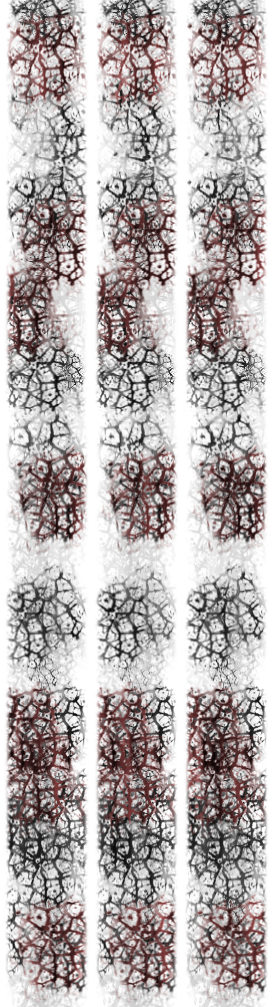
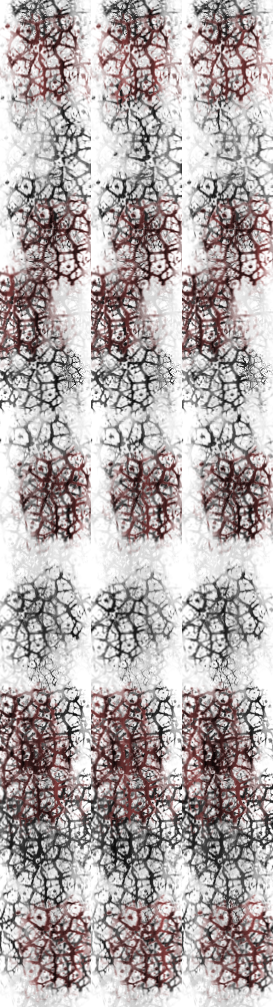
new biomass progress texture * new gui layout for the progress bars * tweaked teak and pine prices to always have a positive biomass in average

diff --git a/VoxelSeeds/Seedbar.cs b/VoxelSeeds/Seedbar.cs
@@ -26,8 +26,12 @@ namespace VoxelSeeds
         }
 
         const int progressBarPictureCount = 3;
-        const int progressBarPictureWidth = 91;
+        const int PARASITE_PROGRESSBAR_SLICE_WIDTH = 91;
+        const int BIOMASS_PROGRESSBAR_SLICE_WIDTH = 100;
         const int progressBarPictureHeight = 1007;
+        const int BIG_INFO_FIELD_WIDTH = 200;
+        const int BIG_INFO_FIELD_HEIGHT = 64;
+        const int PROGRESS_WIDTH = BIG_INFO_FIELD_WIDTH / 2 - 10;
 
         private SpriteBatch spriteBatch;
         private SpriteFont font;
@@ -92,7 +96,7 @@ namespace VoxelSeeds
             helix = contentManager.Load<Texture2D>("helix.png");
             pixel = contentManager.Load<Texture2D>("pixel.png");
             frame = contentManager.Load<Texture2D>("frame.png");
-            progressBar = contentManager.Load<Texture2D>("Dummy.png");
+            progressBar = contentManager.Load<Texture2D>("biomass.png");
             evilProgressBar = contentManager.Load<Texture2D>("parasiteprogress.png");
             _clock = contentManager.Load<Texture2D>("clock.png");
 
@@ -143,36 +147,42 @@ namespace VoxelSeeds
 
         private void DrawFramedQuad(int left, int top, int width, int height, float transparency = 1.0f)
         {
-            spriteBatch.Draw(frame, new DrawingRectangle(left, top, width, height), new Color(0.3f, 0.4f, 0.3f, transparency));
+            spriteBatch.Draw(pixel, new DrawingRectangle(left, top, width, height), new Color(0.3f, 0.4f, 0.3f, transparency));
             spriteBatch.Draw(pixel, new DrawingRectangle(left + 5, top + 5, width - 10, height - 10), new Color(0f, 0.1f, 0f, transparency));
         }
 
         public void Draw(Level currentlevel, GameTime gameTime)
         {
-            float progress = (float)currentlevel.CurrentBiomass / (float)currentlevel.TargetBiomass;
-            float evilProgress = (float)currentlevel.CurrentParasiteMass / (float)currentlevel.FinalParasiteBiomass;
+            float progress = Math.Min(1f,(float)currentlevel.CurrentBiomass / (float)currentlevel.TargetBiomass);
+            float evilProgress = Math.Min(1f,(float)currentlevel.CurrentParasiteMass / (float)currentlevel.FinalParasiteBiomass);
 
 
             progressCount = (float)gameTime.TotalGameTime.TotalSeconds / 2;
 
+            // Factor to blend between different textures for the same object
             alpha = progressCount - (float)Math.Floor(progressCount);
 
             spriteBatch.Begin(SpriteSortMode.Deferred, spriteBatch.GraphicsDevice.BlendStates.NonPremultiplied);
             
-            //draw Progress good/evil
-            spriteBatch.Draw(progressBar, new DrawingRectangle(windowWidth, windowHeight, progressBarPictureWidth, (int)((windowHeight - 68) * progress)),
-                new DrawingRectangle(progressBarPictureWidth * ((int)progressCount % progressBarPictureCount), 0, progressBarPictureWidth, (int)(progressBarPictureHeight * progress)),
+            // Draw Progress good/evil
+            int progressBarHeight = windowHeight - BIG_INFO_FIELD_HEIGHT * 2 - 10;
+            DrawFramedQuad(windowWidth - BIG_INFO_FIELD_WIDTH, BIG_INFO_FIELD_HEIGHT * 2, BIG_INFO_FIELD_WIDTH / 2, windowHeight - BIG_INFO_FIELD_HEIGHT * 2);
+            DrawingRectangle progressRect = new DrawingRectangle(windowWidth - 5 - BIG_INFO_FIELD_WIDTH / 2, windowHeight - 5, PROGRESS_WIDTH, (int)(progressBarHeight * progress));
+            spriteBatch.Draw(progressBar, progressRect,
+                new DrawingRectangle(BIOMASS_PROGRESSBAR_SLICE_WIDTH * ((int)progressCount % progressBarPictureCount), 0, BIOMASS_PROGRESSBAR_SLICE_WIDTH, (int)(progressBarHeight * progress)),
                 new Color(1f,1f,1f, 1f - alpha), (float)Math.PI, new Vector2(0, 0), SpriteEffects.None, 0);
-            spriteBatch.Draw(progressBar, new DrawingRectangle(windowWidth, windowHeight, progressBarPictureWidth, (int)((windowHeight - 68) * progress)),
-                new DrawingRectangle(progressBarPictureWidth * (((int)progressCount + 1) % progressBarPictureCount), 0, progressBarPictureWidth, (int)(progressBarPictureHeight * progress)),
+            spriteBatch.Draw(progressBar, progressRect,
+                new DrawingRectangle(BIOMASS_PROGRESSBAR_SLICE_WIDTH * (((int)progressCount + 1) % progressBarPictureCount), 0, BIOMASS_PROGRESSBAR_SLICE_WIDTH, (int)(progressBarHeight * progress)),
                 new Color(1f, 1f, 1f, alpha), (float)Math.PI, new Vector2(0, 0), SpriteEffects.None, 0);
 
 
-            spriteBatch.Draw(evilProgressBar, new DrawingRectangle(windowWidth - progressBarPictureWidth, windowHeight, progressBarPictureWidth, (int)((windowHeight - 68) * evilProgress)),
-                new DrawingRectangle(progressBarPictureWidth * ((int)progressCount % progressBarPictureCount), 0, progressBarPictureWidth, (int)(progressBarPictureHeight * evilProgress)),
+            DrawFramedQuad(windowWidth - BIG_INFO_FIELD_WIDTH / 2, BIG_INFO_FIELD_HEIGHT * 2, BIG_INFO_FIELD_WIDTH / 2, progressBarHeight + 10);
+            progressRect = new DrawingRectangle(windowWidth - 5, windowHeight - 5, PROGRESS_WIDTH, (int)(progressBarHeight * evilProgress));
+            spriteBatch.Draw(evilProgressBar, progressRect,
+                new DrawingRectangle(PARASITE_PROGRESSBAR_SLICE_WIDTH * ((int)progressCount % progressBarPictureCount), 0, PARASITE_PROGRESSBAR_SLICE_WIDTH, (int)(progressBarHeight * evilProgress)),
                 new Color(1f,1f,1f, 1f - alpha), (float)Math.PI, new Vector2(0, 0), SpriteEffects.None, 0);
-            spriteBatch.Draw(evilProgressBar, new DrawingRectangle(windowWidth - progressBarPictureWidth, windowHeight, progressBarPictureWidth, (int)((windowHeight - 68) * evilProgress)),
-                new DrawingRectangle(progressBarPictureWidth * (((int)progressCount + 1) % progressBarPictureCount), 0, progressBarPictureWidth, (int)(progressBarPictureHeight * evilProgress)),
+            spriteBatch.Draw(evilProgressBar, progressRect,
+                new DrawingRectangle(PARASITE_PROGRESSBAR_SLICE_WIDTH * (((int)progressCount + 1) % progressBarPictureCount), 0, PARASITE_PROGRESSBAR_SLICE_WIDTH, (int)(progressBarHeight * evilProgress)),
                 new Color(1f, 1f, 1f, alpha), (float)Math.PI, new Vector2(0, 0), SpriteEffects.None, 0);
 
             spriteBatch.End();
@@ -193,19 +203,14 @@ namespace VoxelSeeds
             }
 
             // Draw Resources
-            const int BIG_INFO_FIELD_WIDTH = 200;
-            const int BIG_INFO_FIELD_HEIGHT = 64;
             DrawFramedQuad(windowWidth - BIG_INFO_FIELD_WIDTH, 0, BIG_INFO_FIELD_WIDTH, BIG_INFO_FIELD_HEIGHT);
             spriteBatch.Draw(helix, new DrawingRectangle(windowWidth - BIG_INFO_FIELD_WIDTH + 10, 9, 23, 46), Color.White);
-            spriteBatch.DrawString(largeFont, currentlevel.Resources.ToString(), new Vector2(windowWidth - BIG_INFO_FIELD_WIDTH + 33, -6), Color.White);
+            spriteBatch.DrawString(largeFont, currentlevel.Resources.ToString(), new Vector2(windowWidth - BIG_INFO_FIELD_WIDTH + 45, -6), Color.White);
 
             // Draw timer
-            DrawFramedQuad(windowWidth - BIG_INFO_FIELD_WIDTH, windowHeight + 5 - 2 * BIG_INFO_FIELD_HEIGHT, BIG_INFO_FIELD_WIDTH, BIG_INFO_FIELD_HEIGHT);
-            spriteBatch.Draw(_clock, new DrawingRectangle(windowWidth - BIG_INFO_FIELD_WIDTH + 8, windowHeight + 13 - 2 * BIG_INFO_FIELD_HEIGHT, 39, 48), Color.White);
-            spriteBatch.DrawString(largeFont, currentlevel.CountDown, new Vector2(windowWidth - BIG_INFO_FIELD_WIDTH + 50, windowHeight - 2 * BIG_INFO_FIELD_HEIGHT), Color.White);
-
-            // Draw biomass counter
-            DrawFramedQuad(windowWidth - 350, windowHeight - BIG_INFO_FIELD_HEIGHT, 350, BIG_INFO_FIELD_HEIGHT);
+            DrawFramedQuad(windowWidth - BIG_INFO_FIELD_WIDTH, BIG_INFO_FIELD_HEIGHT, BIG_INFO_FIELD_WIDTH, BIG_INFO_FIELD_HEIGHT);
+            spriteBatch.Draw(_clock, new DrawingRectangle(windowWidth - BIG_INFO_FIELD_WIDTH + 8, BIG_INFO_FIELD_HEIGHT+8, 39, 48), Color.White);
+            spriteBatch.DrawString(largeFont, currentlevel.CountDown, new Vector2(windowWidth - BIG_INFO_FIELD_WIDTH + 45, BIG_INFO_FIELD_HEIGHT - 5), currentlevel.TheClockIsTicking() ? Color.White : Color.DarkGray);
 
             if (_selected > -1)
             {

diff --git a/VoxelSeeds/GamePlayUtils.cs b/VoxelSeeds/GamePlayUtils.cs
@@ -75,29 +75,35 @@ namespace VoxelSeeds
 
         /// <summary>
         /// Enough space is defined as:
-        /// A circle of a spezified size must be empty on the y-level where the
-        /// seed should be set. And the level-1 has to contain at least 30% Ground.
+        /// The weighted area sum of a circle of a spezified size must be at
+        /// least 90% on the y-level where the seed should be set and the level - 1
+        /// has to contain at least 50% Ground (again weighted).
         /// </summary>
         /// <param name="type"></param>
         /// <returns></returns>
         static public bool IsThereEnoughSpaceFor(Map map, VoxelType type, int x, int y, int z)
         {
-            int num = 0;
-            int numAvailable = 0;
-            int numGroundBelow = 0;
+            float num = 0f;
+            float numAvailable = 0f;
+            float numGroundBelow = 0f;
             int radius = TypeInformation.GetRequiredSpace(type);
             for (int w = -radius; w <= radius; ++w)
-                for (int u = -radius; u <= radius; ++u) if(u*u+w*w <= radius*radius)
+                for (int u = -radius; u <= radius; ++u)
                 {
-                    ++num;
-                    if (map.IsEmpty(map.EncodePosition(x + u, y, z + w)))
-                        ++numAvailable;
-                    if (map.Get(map.EncodePosition(x + u, y - 1, z + w)) == VoxelType.GROUND)
-                        ++numGroundBelow;
+                    // The center gets the largest weight. Decreasing to zero at edges
+                    float fWeight = (float)(radius-Math.Sqrt(u * u + w * w));
+                    if (fWeight >= 0)
+                    {
+                        num += fWeight;
+                        if (map.IsEmpty(map.EncodePosition(x + u, y, z + w)))
+                            numAvailable += fWeight;
+                        if (map.Get(map.EncodePosition(x + u, y - 1, z + w)) == VoxelType.GROUND)
+                            numGroundBelow += fWeight;
+                    }
                 }
 
-            return numAvailable == num
-                && ((numGroundBelow/(float)num) >= 0.3f);
+            return ((numAvailable/num) >= 0.90f)
+                && ((numGroundBelow/num) >= 0.5f);
         }
     }
 }

diff --git a/VoxelSeeds/VoxelInfo.cs b/VoxelSeeds/VoxelInfo.cs
@@ -34,7 +34,15 @@ namespace VoxelSeeds
 
     class TypeInformation
     {   //same order as the VoxelType enum
-        readonly static int[] prices = {0, 0, 0, 120, 90, 152, 68, 116, 956, 0, 0, 0, 0, 0, 0, 0 };
+
+        /// <summary>
+        /// Values from statistically analysis. This is the mass generated by
+        /// one seed.
+        /// </summary>
+        readonly static int[] averageBiomass = { 0, 0, 0, 90, 130, -1, -1, -1, -1, -1, -1, -1, -1, -1, -1, -1, -1, -1 };
+
+        //readonly static int[] prices = {0, 0, 0, 120, 90, 152, 68, 116, 956, 0, 0, 0, 0, 0, 0, 0 };
+        readonly static int[] prices = { 0, 0, 0, 84, 119, 0, 0, 0, 0, 0, 0, 0, 0, 0, 0, 0 };
         readonly static String[,] strength = { { "", "" }, { "-", "-" }, { "-", "-" }, 
                                              { "White Rot", "Noble Rot" }, 
                                              { "Hesperophanes Cinnereus", "Grasshopper" }, 
@@ -101,7 +109,7 @@ namespace VoxelSeeds
         /// </summary>
         readonly static float[] scalingFactor = { 1.0f, 1.0f, 1.0f, 1f, 1f, 1f, 1f, 1f, 1f, 1f, 1f, 0.5f, 0.5f, 0.5f, 0.5f, 1f, 1f, 1f};
 
-        readonly static int[] growingSteps = { 0, 0, 0, 2, 4, 8, 2, 2, 2, 16, 2, 2, 1, 3, 2, 5, 3, 6 };
+        readonly static int[] growingSteps =   { 0, 0, 0,  4, 6, 7, 11, 10, 12, 16, 14, 2, 1, 3, 2, 5, 3, 6 };
 
         readonly static int[] growHeight = { 0, 0, 0, 7, 10, 8, 6, 8, 19, 1, 1, 1, 1, 50, 1, 5, 2, 7 };
 

diff --git a/VoxelSeeds/Level.cs b/VoxelSeeds/Level.cs
@@ -29,6 +29,7 @@ namespace VoxelSeeds
 
         public Level(VoxelRenderer voxelRenderer)
         {
+            _countDown = 1.0f;
             Initialize();
 
             lightDirection.Normalize();
@@ -45,6 +46,7 @@ namespace VoxelSeeds
 
         public bool IsVictory() { return _countDown <= 0.0f; }
         public bool IsLost() { return (CurrentParasiteMass >= _finalParasiteMass) || (_resources < 68 && _automaton.NumLivingBiomass==0); }
+        public bool TheClockIsTicking() { return CurrentBiomass > _targetBiomass; }
 
         public Map GetMap() { return _automaton.Map; }
         public void InsertSeed(int x, int y, int z, VoxelType type) { _automaton.InsertSeed(x, y, z, type); }
@@ -57,7 +59,7 @@ namespace VoxelSeeds
             _automaton.Tick();
             _resources += Math.Max(0, CurrentBiomass - oldBiomass);
 
-            if (CurrentBiomass > _targetBiomass)
+            if (TheClockIsTicking())
                 _countDown = Math.Max(0.0f, _countDown - 0.25f / 60.0f);
         }
 
